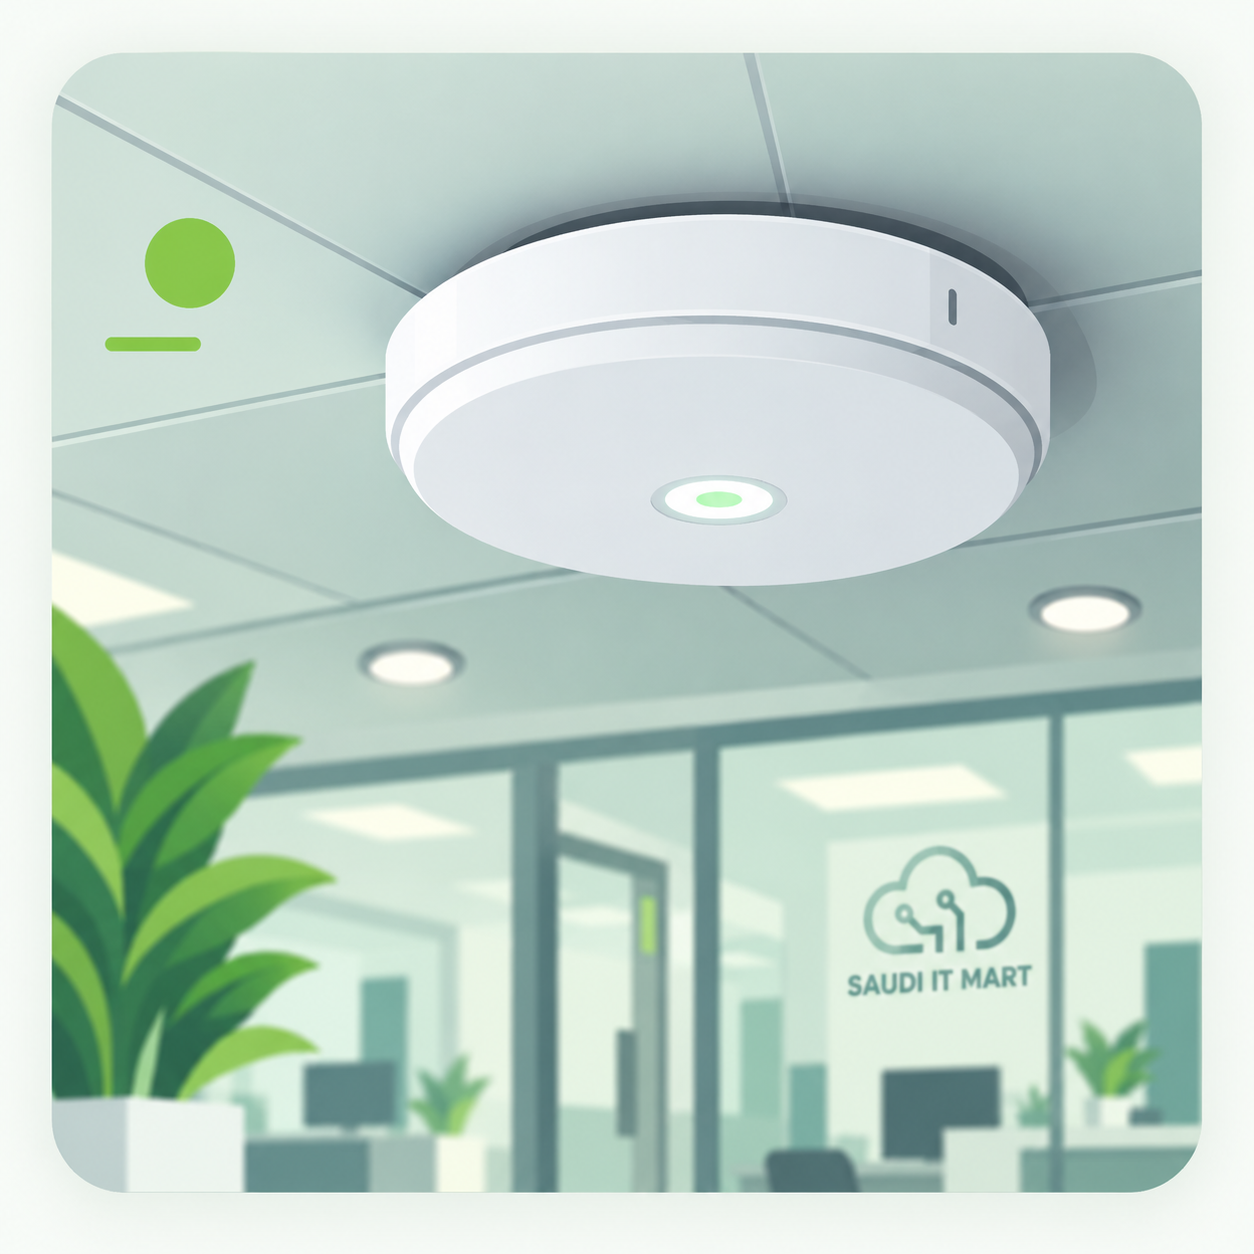
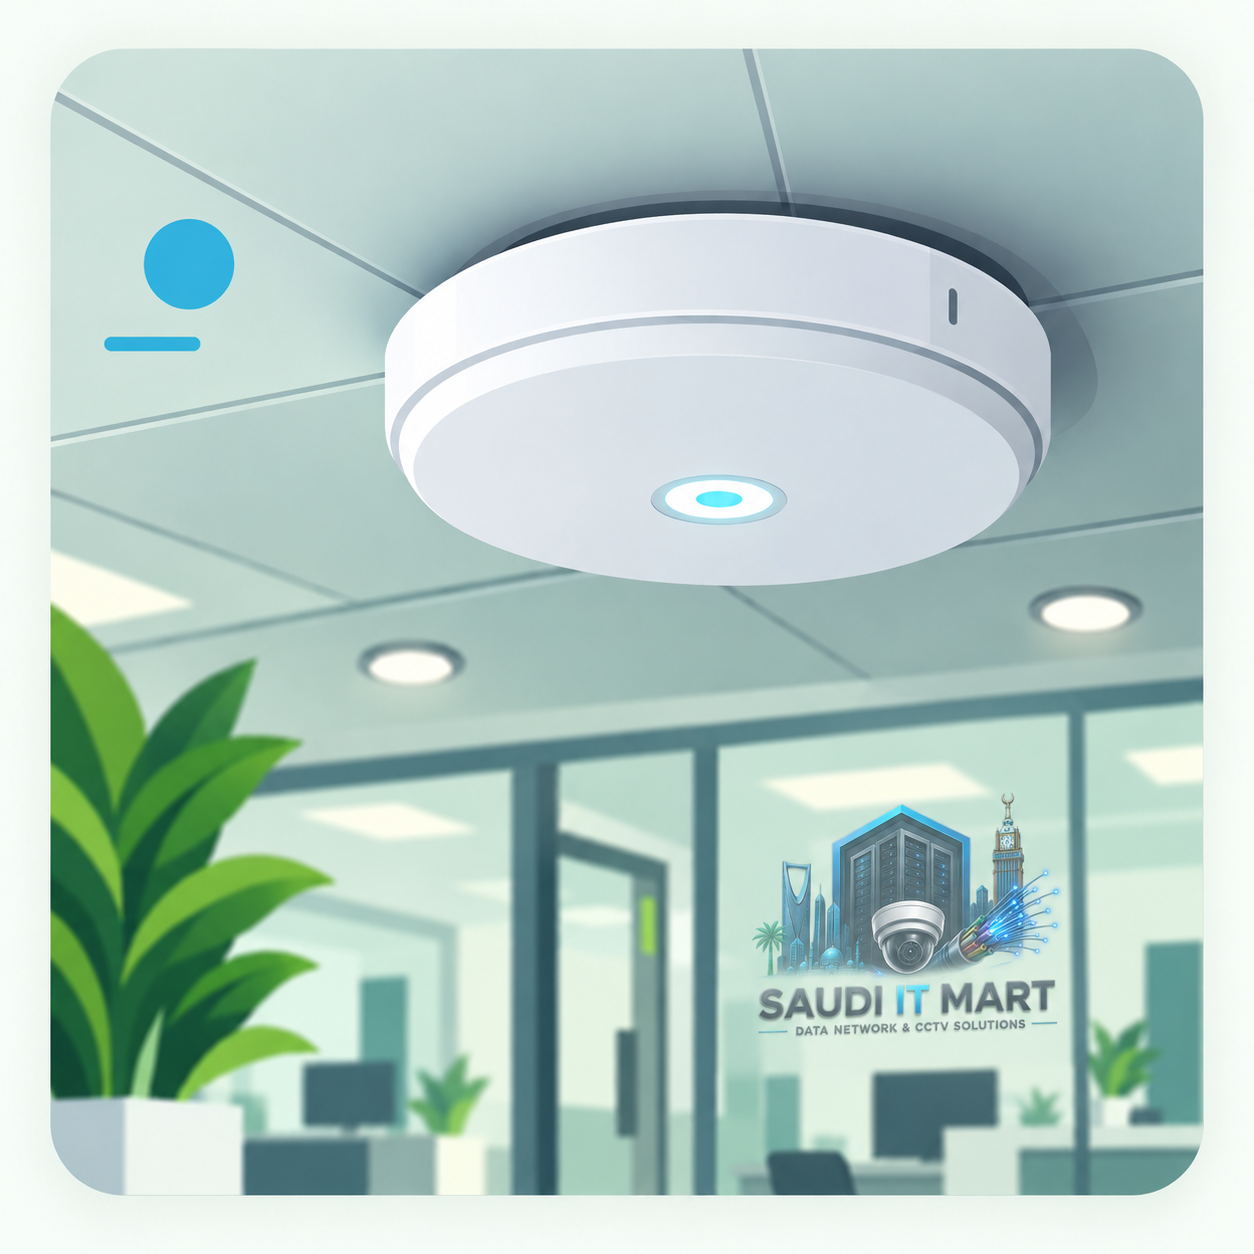
feat: add separate power supply service section

diff --git a/app/page.tsx b/app/page.tsx
@@ -9,7 +9,7 @@ type Service = {
   title: string;
   category: string;
   description: string;
-  serial: string;
+  serial?: string;
   image: string;
   tag?: string;
   detail: string;
@@ -52,6 +52,7 @@ const serviceCategories = [
   "Network",
   "Access Control",
   "Manpower Supply",
+  "Power Supply",
 ];
 
 const services: Service[] = [
@@ -112,6 +113,59 @@ const services: Service[] = [
       "Project-based deployment of technical manpower for ELV, ICT, and telecom execution, with trained teams ready for installation, testing, and commissioning support.",
   },
 ];
+
+const powerSupplyServices: Service[] = [
+  {
+    title: "UPS Systems",
+    category: "Power Supply",
+    description: "Online UPS / Backup Power / Critical Load Protection",
+    image: "/images/services/data-center-riyadh.jpg",
+    detail:
+      "Online UPS systems that protect critical loads from outages, voltage disturbances, and power interruptions while supporting dependable infrastructure operation.",
+  },
+  {
+    title: "DC Power Systems",
+    category: "Power Supply",
+    description: "DC Power / Rectifier / Battery Backup Solutions",
+    image: "/images/services/network-wifi.jpg",
+    detail:
+      "DC power systems with rectifiers and battery backup solutions for telecom, networking, and low-current infrastructure that requires stable continuous power.",
+  },
+  {
+    title: "Power Distribution",
+    category: "Power Supply",
+    description: "Distribution Boards / PDU / Electrical Infrastructure",
+    image: "/images/services/structured-cabling.jpg",
+    detail:
+      "Power distribution planning and installation covering distribution boards, PDUs, rack power, and organized electrical infrastructure for efficient service delivery.",
+  },
+  {
+    title: "Battery Backup",
+    category: "Power Supply",
+    description: "Battery Banks / Backup Systems / Power Continuity",
+    image: "/images/services/fiber-optic.jpg",
+    detail:
+      "Battery banks and backup systems designed to maintain power continuity, extend runtime, and support critical equipment during planned or unexpected interruptions.",
+  },
+  {
+    title: "Power Protection",
+    category: "Power Supply",
+    description: "Surge Protection / Voltage Regulation / Power Safety",
+    image: "/images/services/cctv-surveillance.jpg",
+    detail:
+      "Power protection solutions using surge protection and voltage regulation to reduce electrical risk and improve the safety and reliability of connected systems.",
+  },
+  {
+    title: "Backup Solutions",
+    category: "Power Supply",
+    description: "Reliable Backup Power / Emergency Power / Business Continuity",
+    image: "/images/services/access-control.jpg",
+    detail:
+      "Reliable emergency and backup power solutions that help businesses maintain essential operations and continuity across critical ELV and ICT environments.",
+  },
+];
+
+const allServices = [...services, ...powerSupplyServices];
 
 const statItems = [
   { value: "07+", label: "Years Experience" },
@@ -230,7 +284,7 @@ function Header({ theme, onToggleTheme }: { theme: ThemeMode; onToggleTheme: () 
       return;
     }
 
-    const relevant = services.some((service) =>
+    const relevant = allServices.some((service) =>
       `${service.title} ${service.description} ${service.category}`.toLowerCase().includes(value),
     );
 
@@ -536,6 +590,17 @@ function ServicesSection({ isDark }: { isDark: boolean }) {
     });
   }, [activeCategory, serviceSearch]);
 
+  const showPowerSupply = useMemo(() => {
+    const keyword = serviceSearch.trim().toLowerCase();
+    return powerSupplyServices.some((service) => {
+      const matchesCategory = activeCategory === "All" || service.category === activeCategory;
+      const matchesSearch =
+        !keyword ||
+        `${service.title} ${service.description} ${service.category}`.toLowerCase().includes(keyword);
+      return matchesCategory && matchesSearch;
+    });
+  }, [activeCategory, serviceSearch]);
+
   return (
     <>
       <section id="services" className="w-full">
@@ -650,15 +715,63 @@ function ServicesSection({ isDark }: { isDark: boolean }) {
                   </div>
                 </article>
               ))
-            ) : (
+            ) : !showPowerSupply ? (
               <div className={[
                 "md:col-span-2 xl:col-span-3 rounded-[24px] border border-dashed p-8 text-center",
                 isDark ? "border-white/10 bg-[#142534] text-slate-300" : "border-black/10 bg-white text-zinc-500",
               ].join(" ")}>
                 No services match your current filter. Try another keyword or category.
               </div>
-            )}
+            ) : null}
           </div>
+          {showPowerSupply ? (
+            <div className="mt-12 border-t border-black/5 pt-8 md:mt-16 md:pt-10">
+              <div className="mb-5">
+                <p className="mb-2 text-[11px] font-bold uppercase tracking-[0.18em] text-[#4a7b1d]">
+                  Power Supply
+                </p>
+                <h3 className={isDark ? "text-2xl font-black tracking-[-0.05em] text-white md:text-3xl" : "text-2xl font-black tracking-[-0.05em] text-[#111827] md:text-3xl"}>
+                  Reliable Power for Critical Infrastructure
+                </h3>
+              </div>
+              <div className="grid grid-cols-2 gap-3 md:grid-cols-3 md:gap-5 xl:grid-cols-6">
+                {powerSupplyServices.map((service) => (
+                <article
+                  key={service.title}
+                  className={[
+                    "group flex min-h-[390px] flex-col overflow-hidden rounded-[20px] border shadow-[0_15px_30px_rgba(17,24,39,0.06)] transition duration-200 hover:-translate-y-1 hover:shadow-[0_18px_38px_rgba(17,24,39,0.09)] md:min-h-[430px] md:rounded-[24px]",
+                    isDark ? "border-white/10 bg-[#0f1a24]" : "border-black/5 bg-[#f7f7f4]",
+                  ].join(" ")}
+                >
+                  <div className="relative">
+                    <Image src={service.image} alt={service.title} width={800} height={520} className="h-36 w-full object-cover transition duration-300 group-hover:scale-105 md:h-52" />
+                  </div>
+                  <div className="flex flex-1 flex-col p-3 md:p-5">
+                    <div className="mb-3 flex justify-end md:mb-4">
+                      <span className="text-right text-[9px] font-semibold uppercase tracking-[0.08em] text-[#4a7b1d] md:text-[10px] md:tracking-[0.12em]">
+                        {service.category}
+                      </span>
+                    </div>
+                    <h4 className={isDark ? "text-base font-bold leading-tight tracking-[-0.03em] text-white md:text-2xl" : "text-base font-bold leading-tight tracking-[-0.03em] text-[#111827] md:text-2xl"}>
+                      {service.title}
+                    </h4>
+                    <p className={isDark ? "mt-2 min-h-[56px] text-xs leading-5 text-slate-300 md:min-h-[48px] md:text-sm md:leading-6" : "mt-2 min-h-[56px] text-xs leading-5 text-zinc-600 md:min-h-[48px] md:text-sm md:leading-6"}>{service.description}</p>
+                    <div className="mt-auto flex flex-wrap items-center justify-between gap-2 pt-4 md:gap-3 md:pt-5">
+                      <button
+                        type="button"
+                        onClick={() => setSelectedService(service)}
+                        className={isDark ? "inline-flex items-center gap-1 text-xs font-semibold text-white md:gap-2 md:text-sm" : "inline-flex items-center gap-1 text-xs font-semibold text-[#0f1720] md:gap-2 md:text-sm"}
+                      >
+                        Learn More <span aria-hidden>→</span>
+                      </button>
+                      <span className="text-[10px] text-zinc-400 md:text-xs">{service.category}</span>
+                    </div>
+                  </div>
+                </article>
+                ))}
+              </div>
+            </div>
+          ) : null}
         </div>
       </section>
 
